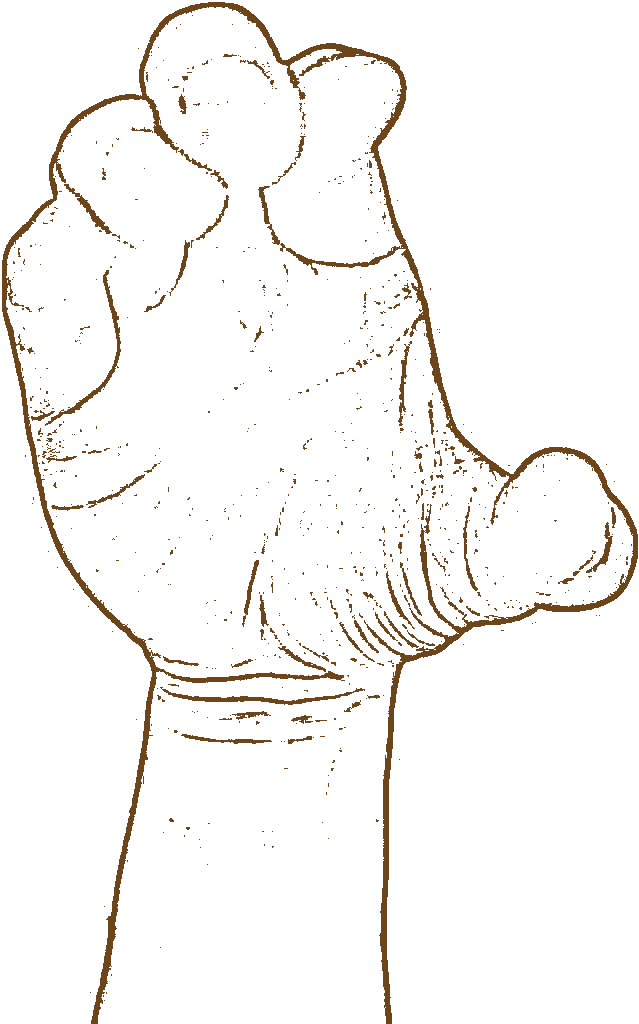
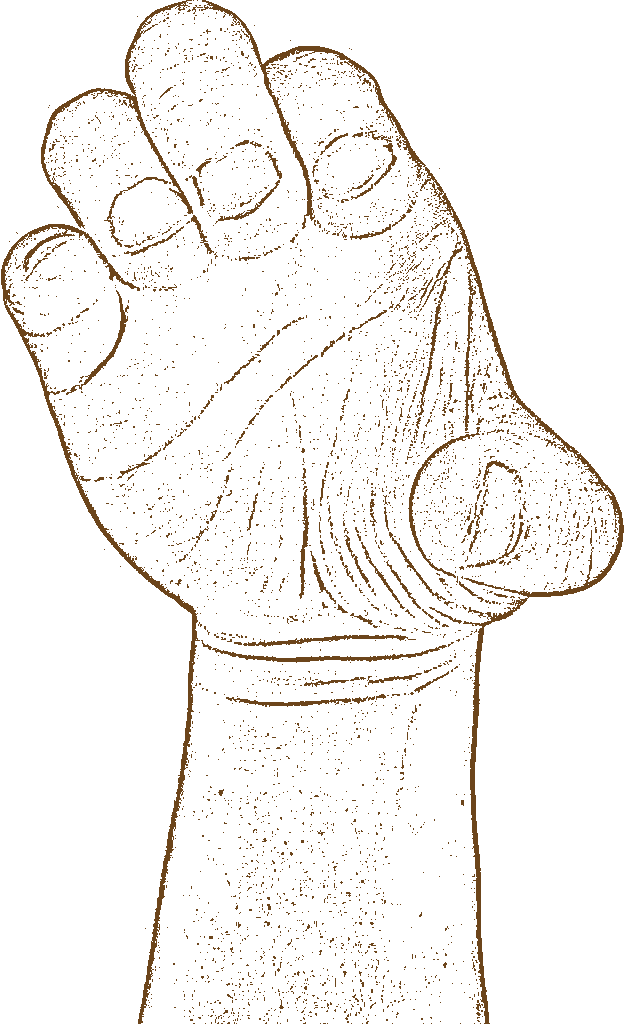
opt(): improve handshape label

diff --git a/handshapes/make_example.py b/handshapes/make_example.py
@@ -43,6 +43,7 @@ def image_to_draw(input_filename):
 
     # replace the original color with the new color
     img_rgba[mask] = [108, 69, 27, 0]
+    img_rgba[mask] = [250, 250, 250, 0]
 
     # convert the color back to BGR
     img_bgr = cv2.cvtColor(img_rgba, cv2.COLOR_RGBA2BGR)
@@ -51,7 +52,7 @@ def image_to_draw(input_filename):
 
 
 if __name__ == '__main__':
-    image_name = 'oi_side'
+    image_name = 'd_front'
 
     image_to_draw(image_name)
     white_to_transparent('{}.png'.format(image_name),
